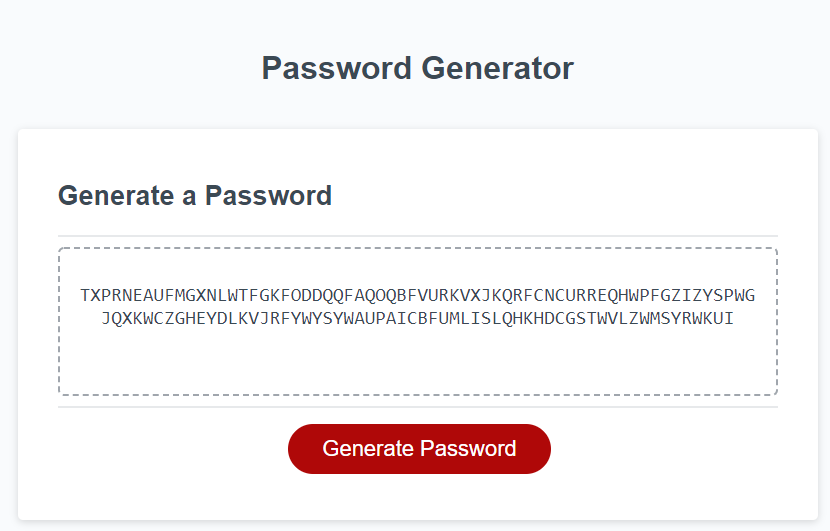
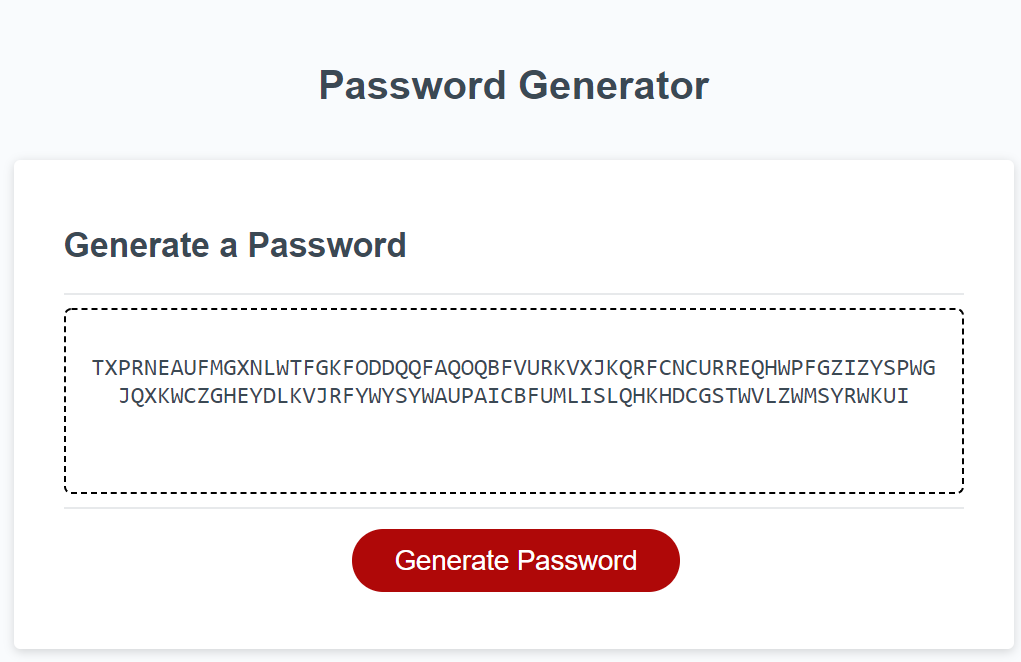
Fixing a stupid mistage with image sizing.

diff --git a/assets/style/style.css b/assets/style/style.css
@@ -167,8 +167,8 @@ when highlighted. */
     box-sizing: border-box;
     border-radius: 20px;
     padding: 10px;
-    max-height: 100%;
-    max-width: 100%;
+    height: 100%;
+    width: 100%;
 }
 
 /* Special controls for the most recent work in the portfolio */
